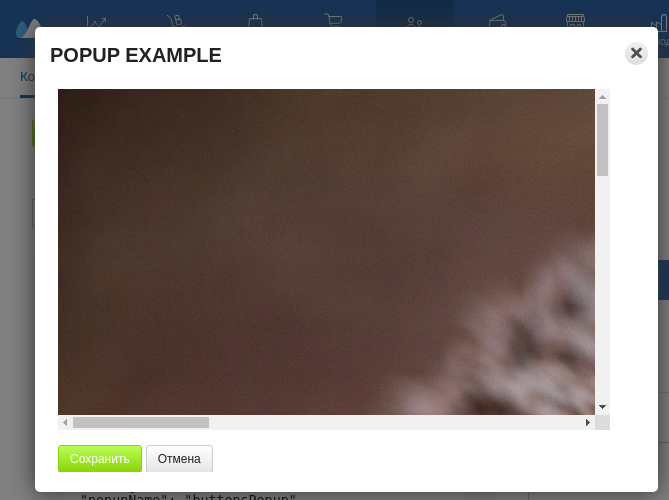
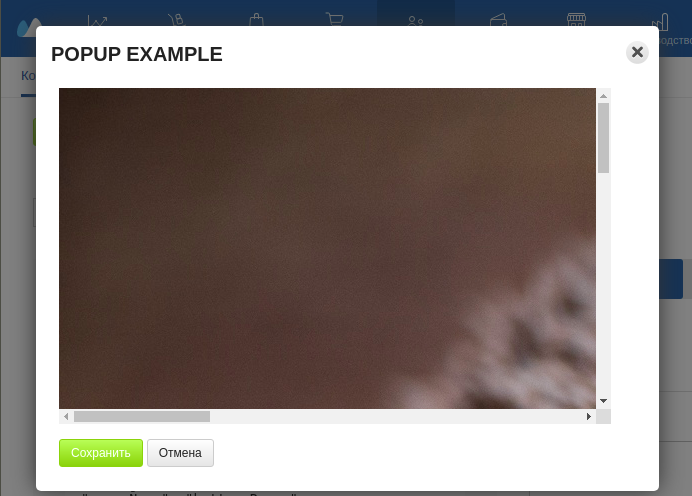
AS-1297 - fix MR issues

diff --git a/source/includes/_5_widgets.md b/source/includes/_5_widgets.md
@@ -519,7 +519,7 @@
     ...
 </popups>
 ```
-в дескрипторе приложения. Пример дескриптора с блоком `popups` можно увидеть справа.
+в [дескрипторе приложения](#blok-popups). Пример дескриптора с блоком `popups` можно увидеть справа.
 
 Виджет может отобразить одно из попап-окон, отправив сообщение `ShowPopupRequest` с именем выбранного попапа хост-окну.
 Пример такого сообщения можно увидеть справа. 
@@ -726,7 +726,7 @@
         }
         .buttons-container {
             padding-top: 15px;
-            min-height: 50px;
+            min-height: 55px;
         }
     </style>
     <link rel="stylesheet" href="css/uikit.css">
@@ -827,7 +827,7 @@
 
 Существует несколько способов передачи параметров между виджетами и попапами:
 
-* передача в виде строки 
+* передача в виде примитивного значения
 * передача в виде объекта
 * передача в виде массива (в т.ч. массива объектов) 
 * передача в виде значения `null`
